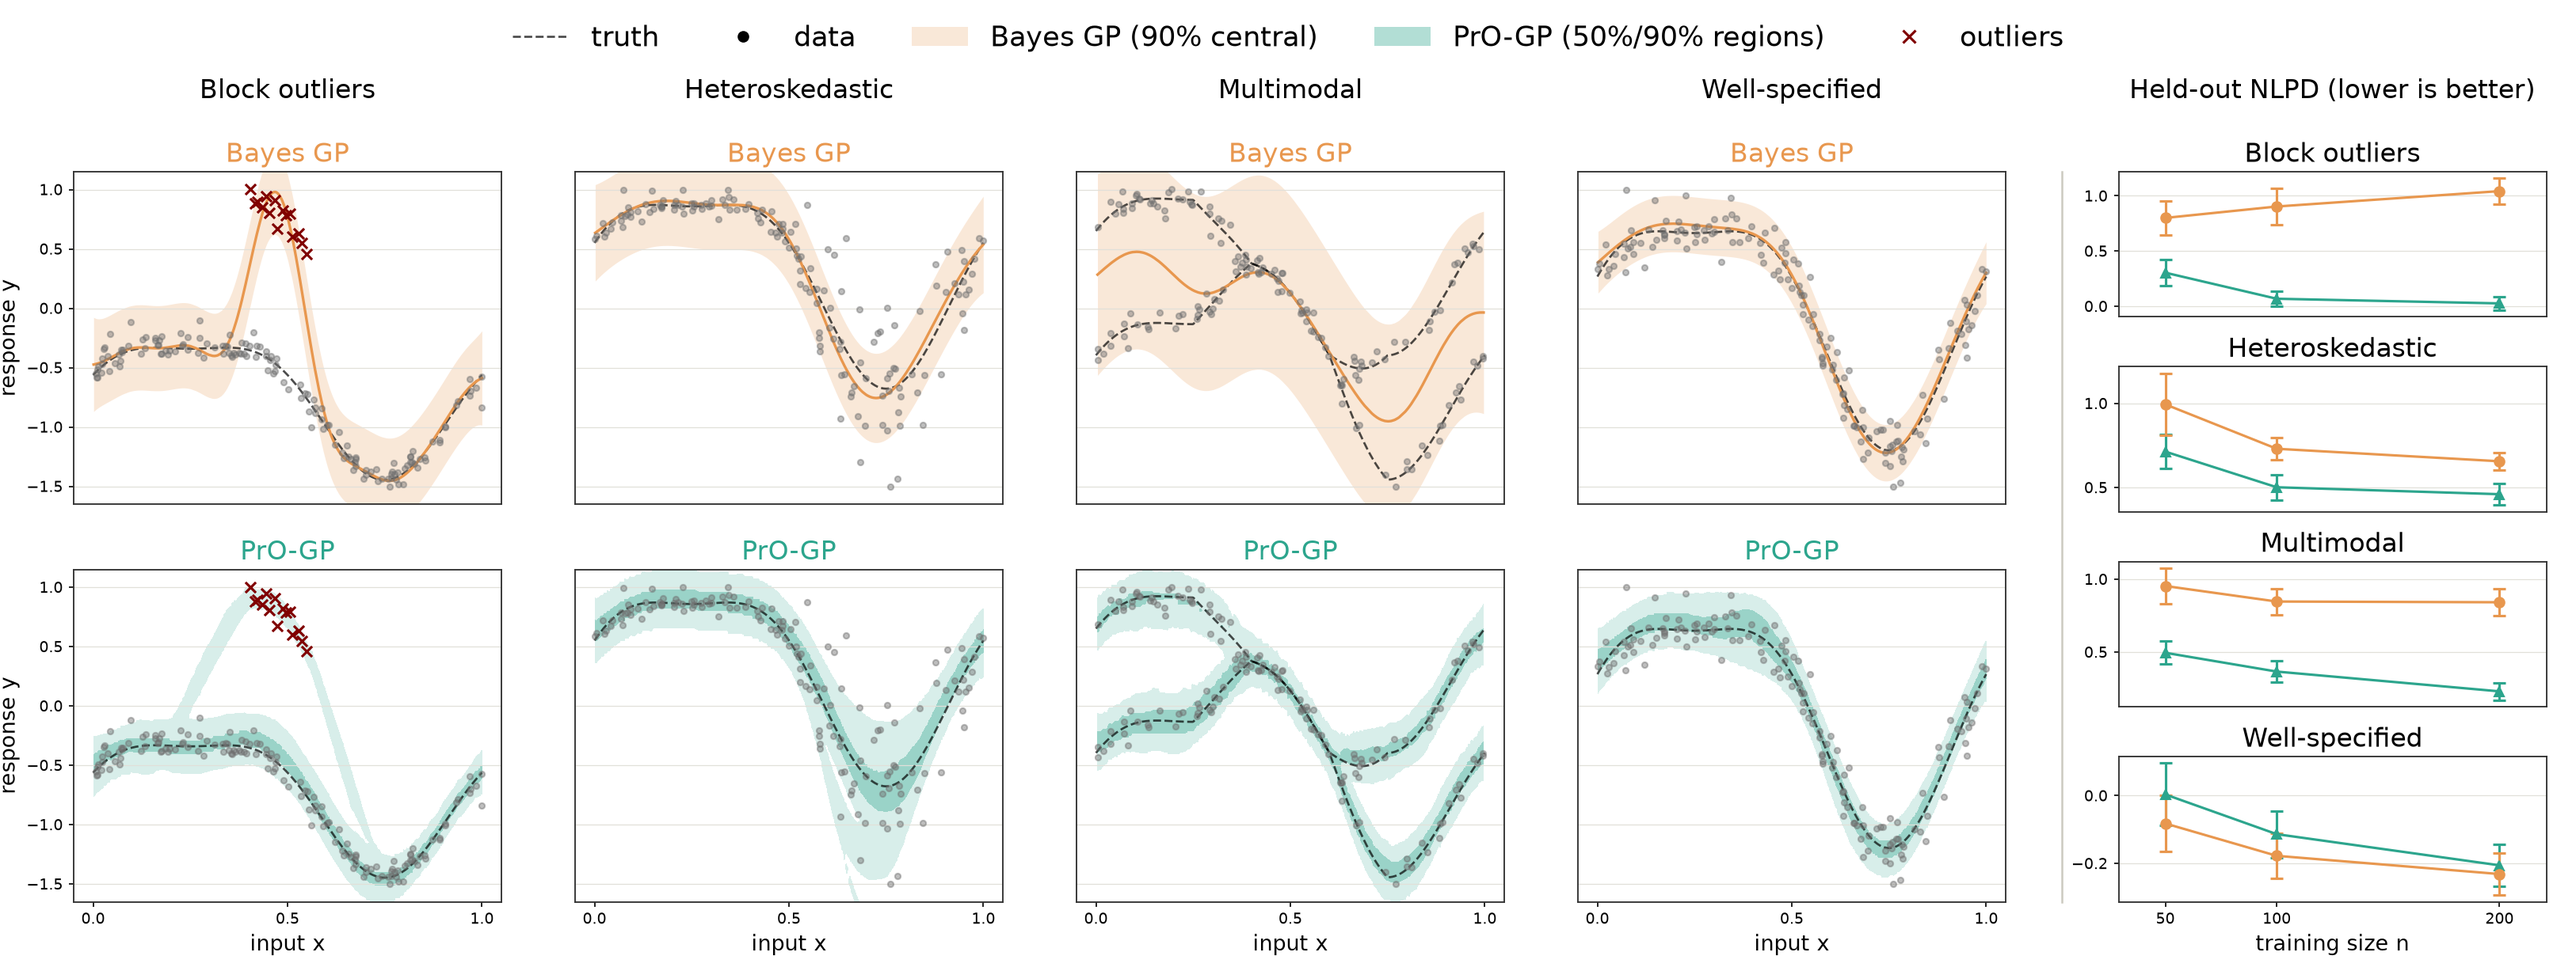
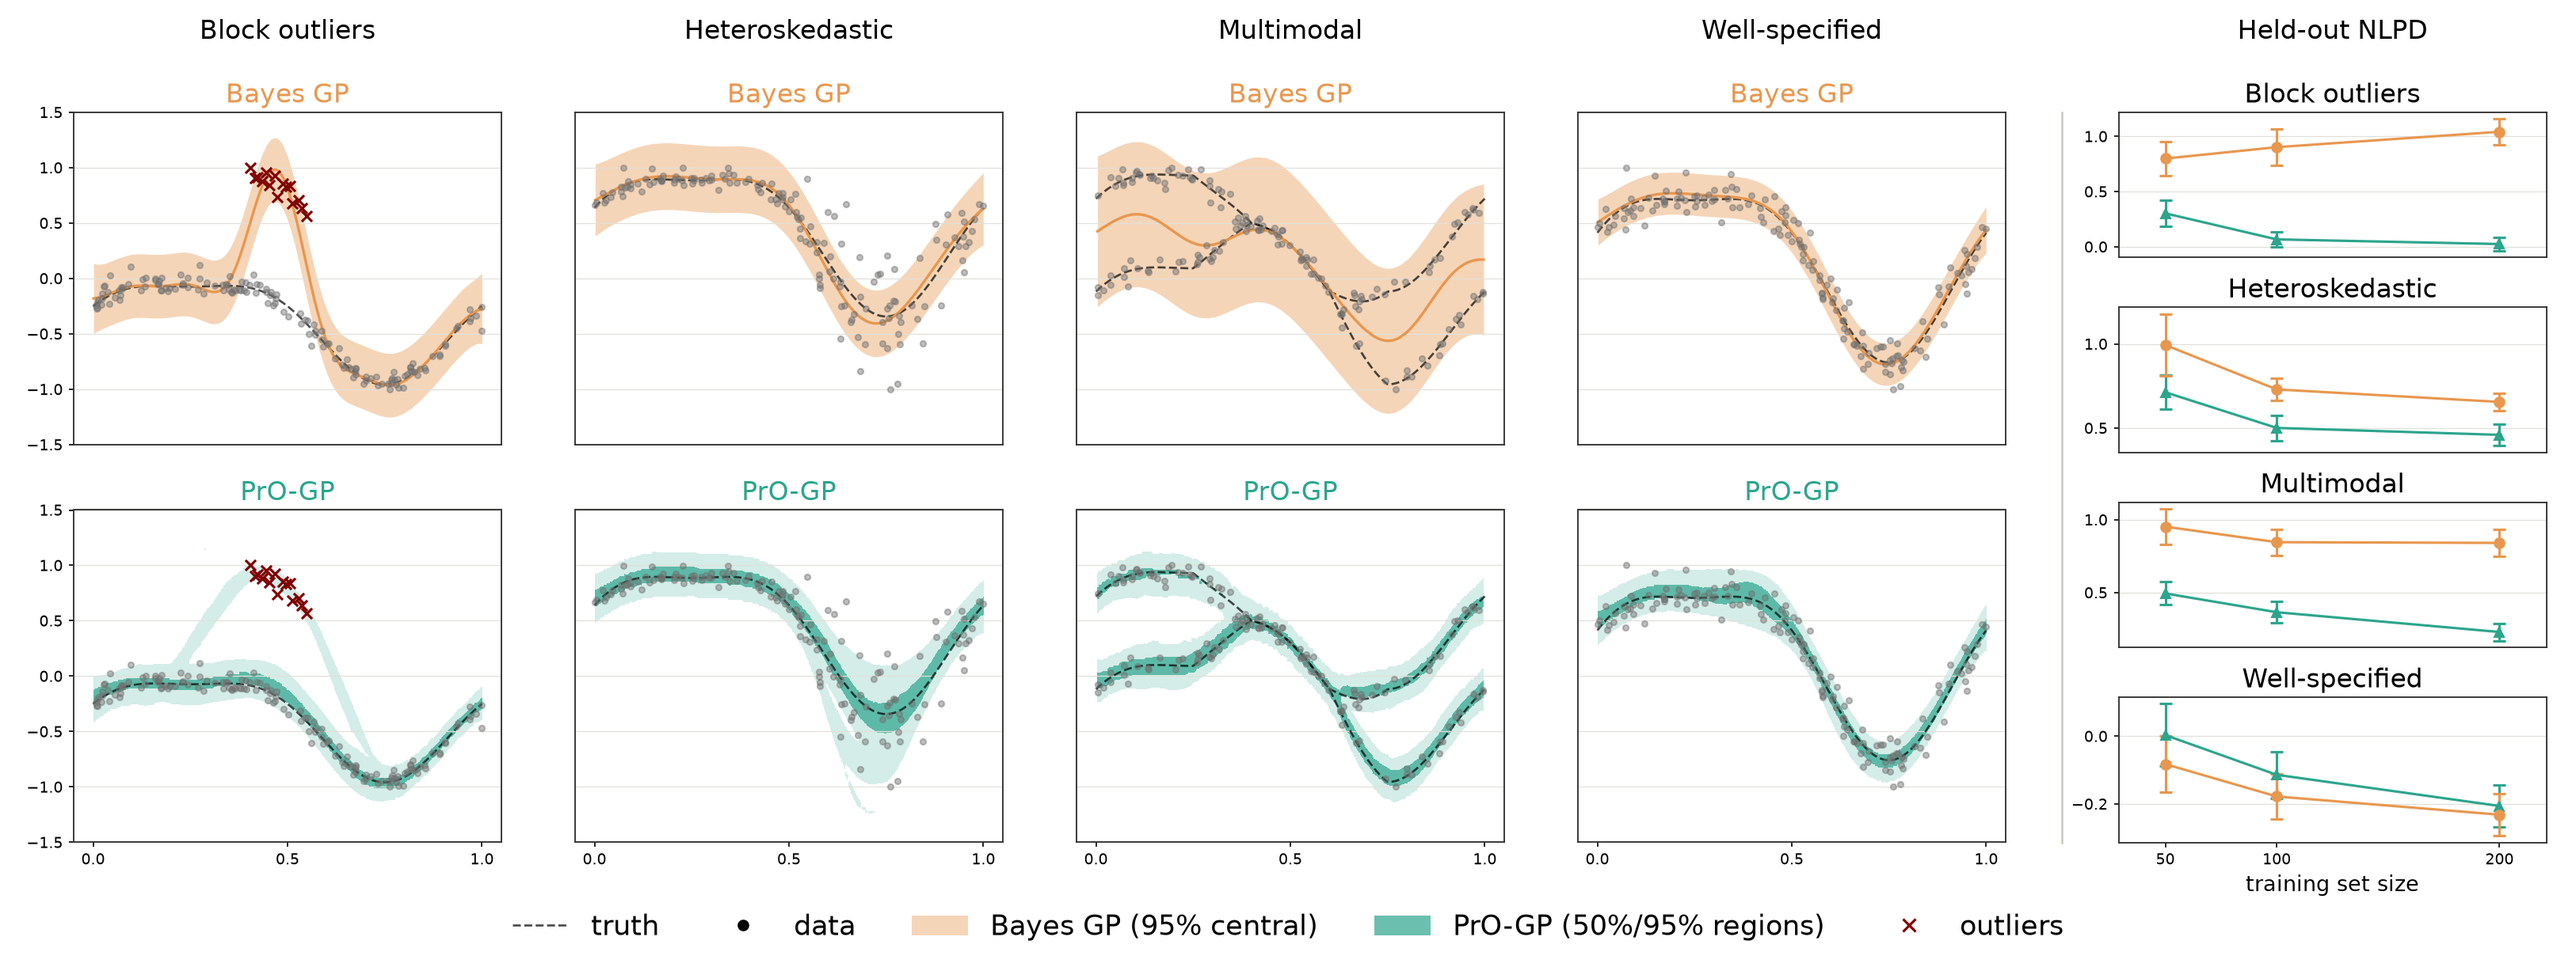
.

diff --git a/experiments/synthetic/scripts/example_grid.py b/experiments/synthetic/scripts/example_grid.py
@@ -24,7 +24,7 @@ GP_COLOR = "#e8974e"
 PRO_COLOR = "#2ca58d"
 GP_LABEL = "Bayes GP"
 PRO_LABEL = "PrO-GP"
-Z_90 = 1.96
+Z_95 = 1.96
 DATA_ALPHA = 0.45
 PANEL_ALPHA = 1.4
 PANEL_NUM_PARTICLES = 50
@@ -35,14 +35,17 @@ PANEL_ADAPT_STEPS = 400
 PANEL_KERNEL_ADAPT_STEPS = 400
 PANEL_KERNEL_LR = 0.5
 PANEL_KERNEL_STEPS_PER_ADAPT = 1
-GP_BAND_ALPHA = 0.22
-PRO_BAND_ALPHAS = (0.18, 0.36)
+GP_BAND_ALPHA = 0.4
+PRO_BAND_ALPHAS = (0.2, 0.7)
 COLUMN_TITLE_PAD_IN = 0.62
 X_TICKS = (0.0, 0.5, 1.0)
 # Every panel is rescaled onto this window for display (see `_display_affine`), then
 # padded slightly so nothing sits on the spines.
-DISPLAY_YLIM = (-1.5, 1.0)
-DISPLAY_PAD = 0.06
+# Each panel's data is rescaled onto DISPLAY_YLIM (see `_display_affine`); AXIS_YLIM
+# is then what the axes actually span, so the frame can be widened without changing
+# how the data is scaled into it.
+DISPLAY_YLIM = (-1.0, 1.0)
+AXIS_YLIM = (-1.5, 1.5)
 
 plt.rcParams.update(
     {
@@ -94,8 +97,8 @@ def _hide_ticks(ax, *, x: bool = False, y: bool = False) -> None:
 def _gp_band(ax, x_sorted, mean_sorted, std_sorted) -> None:
     ax.fill_between(
         x_sorted,
-        mean_sorted - Z_90 * std_sorted,
-        mean_sorted + Z_90 * std_sorted,
+        mean_sorted - Z_95 * std_sorted,
+        mean_sorted + Z_95 * std_sorted,
         color=GP_COLOR,
         alpha=GP_BAND_ALPHA,
         linewidth=0,
@@ -263,19 +266,14 @@ def plot_fit_grid(
         index = index_overrides.get(spec.regime, spec.instance_index)
         _plot_fit_panel(ax, spec, keys[index], method="pro", algorithm=algorithm)
         ax.set_title(PRO_LABEL, fontsize=16, color=PRO_COLOR)
-        ax.set_xlabel("input x")
         _hide_ticks(ax, y=col > 0)
 
-    display_lo, display_hi = DISPLAY_YLIM
-    pad = DISPLAY_PAD * (display_hi - display_lo)
     for ax in (*gp_axes, *pro_axes):
-        ax.set_ylim(display_lo - pad, display_hi + pad)
+        ax.set_ylim(*AXIS_YLIM)
         ax.set_xticks(X_TICKS)
-    for ax in (gp_axes[0], pro_axes[0]):
-        ax.set_ylabel("response y")
 
 
-TOP_LEGEND_HANDLES = [
+LEGEND_HANDLES = [
     Line2D(
         [0], [0], color="black", linestyle="--", linewidth=1.3, alpha=0.7, label="truth"
     ),
@@ -288,11 +286,11 @@ TOP_LEGEND_HANDLES = [
         markersize=6,
         label="data",
     ),
-    Patch(facecolor=GP_COLOR, alpha=GP_BAND_ALPHA, label=f"{GP_LABEL} (90% central)"),
+    Patch(facecolor=GP_COLOR, alpha=GP_BAND_ALPHA, label=f"{GP_LABEL} (95% central)"),
     Patch(
         facecolor=PRO_COLOR,
         alpha=PRO_BAND_ALPHAS[1],
-        label=f"{PRO_LABEL} (50%/90% regions)",
+        label=f"{PRO_LABEL} (50%/95% regions)",
     ),
     Line2D(
         [0],

diff --git a/experiments/synthetic/scripts/combine_grid_summary_columns.py b/experiments/synthetic/scripts/combine_grid_summary_columns.py
@@ -13,8 +13,8 @@ from example_grid import _SOURCES as EXAMPLE_SOURCES
 from example_grid import (
     COLUMN_TITLE_PAD_IN,
     GP_COLOR,
+    LEGEND_HANDLES,
     PRO_COLOR,
-    TOP_LEGEND_HANDLES,
     _hide_ticks,
     _style_box,
     plot_fit_grid,
@@ -52,7 +52,7 @@ FIT_ROW_GAP_IN = 0.55  # room for the "PrO-GP" row title
 SUMMARY_NCOLS = 1
 BLOCK_GAP_IN = 0.95  # between the fit block and the summary column
 MARGIN_LEFT_IN, MARGIN_RIGHT_IN = 0.62, 0.25
-MARGIN_TOP_IN, MARGIN_BOTTOM_IN = 1.45, 0.55
+MARGIN_TOP_IN, MARGIN_BOTTOM_IN = 0.95, 1.05
 
 FIT_NCOLS, FIT_NROWS = 4, 2
 SUMMARY_NROWS = 4
@@ -165,15 +165,15 @@ def main(
     fig.text(
         (SUMMARY_LEFT + SUMMARY_RIGHT) / 2,
         GRID_TOP + COLUMN_TITLE_PAD_IN / FIG_H,
-        "Held-out NLPD (lower is better)",
+        "Held-out NLPD",
         ha="center",
         fontsize=TITLE_FONTSIZE,
     )
 
     fig.legend(
-        handles=TOP_LEGEND_HANDLES,
-        loc="upper center",
-        bbox_to_anchor=(0.5, 1.0),
+        handles=LEGEND_HANDLES,
+        loc="lower center",
+        bbox_to_anchor=(0.5, 0.0),
         ncol=5,
         fontsize=LEGEND_FONTSIZE,
         frameon=False,

diff --git a/experiments/synthetic/scripts/plot_summary.py b/experiments/synthetic/scripts/plot_summary.py
@@ -98,7 +98,7 @@ def _plot_sweep(
             capthick=1.5,
         )
 
-    ax.set_xlabel("training size n")
+    ax.set_xlabel("training set size")
     ax.xaxis.set_major_formatter(mticker.ScalarFormatter())
     ax.set_xticks(all_values)
 
